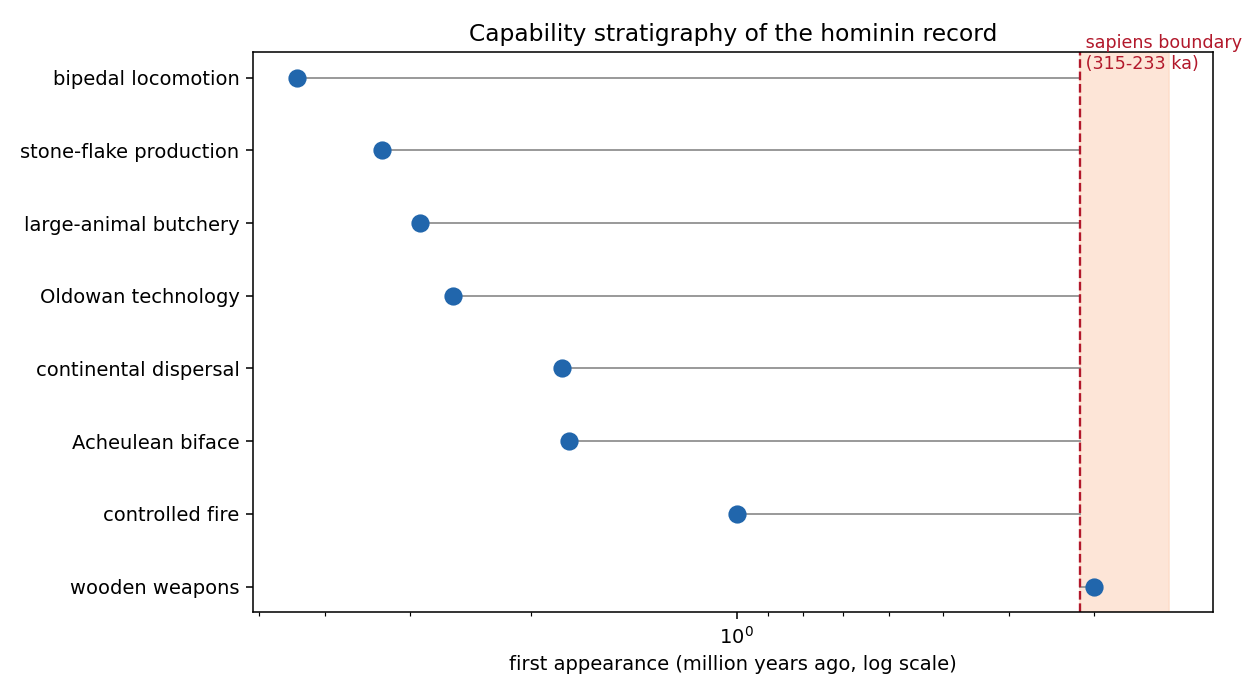
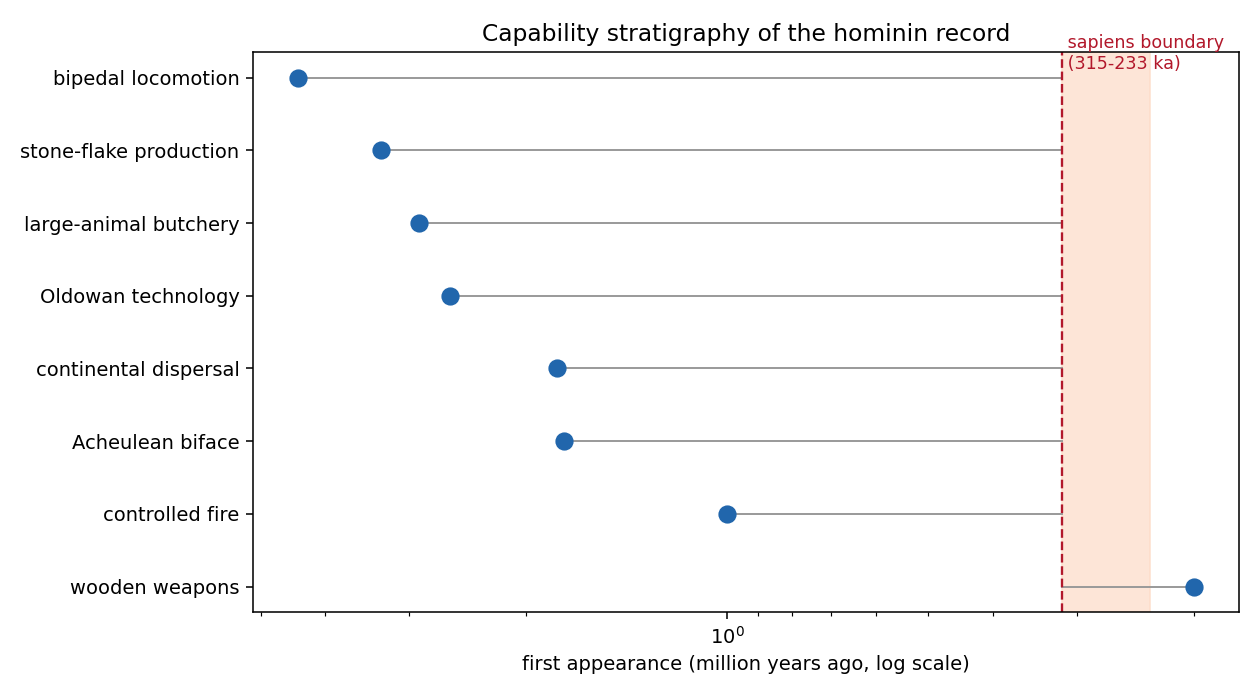
dev: update

diff --git a/simulation/stratigraphy.py b/simulation/stratigraphy.py
@@ -31,8 +31,8 @@ CAPABILITIES = [
      "Homo erectus", "Lepre et al. 2011"),
     ("controlled fire", 1.00, "Wonderwerk Cave (in situ burning)",
      "Homo erectus / archaic", "Berna et al. 2012"),
-    ("wooden weapons", 0.30, "Schoningen, Germany",
-     "Neanderthal-lineage / Middle Pleistocene", "Thieme 1997"),
+    ("wooden weapons", 0.20, "Schoningen, Germany (MIS 7)",
+     "Neanderthal-lineage / Middle Pleistocene", "Hutson et al. 2025"),
 ]
 
 # The sapiens boundary is not a single date. Three commonly cited points:
@@ -61,7 +61,7 @@ CHRONOLOGY = [
     ("Wonderwerk fire", 1.00, "Berna et al. 2012"),
     ("Sima de los Huesos", 0.43, "Meyer et al. 2016"),
     ("Jebel Irhoud", 0.315, "Hublin et al. 2017; Richter et al. 2017"),
-    ("Schoningen spears", 0.30, "Thieme 1997"),
+    ("Schoningen spears", 0.20, "Hutson et al. 2025"),
     ("Omo I", 0.233, "Vidal et al. 2022"),
     ("Herto", 0.16, "White et al. 2003"),
 ]

diff --git a/review-2026-06-18.md b/review-2026-06-18.md
@@ -1,0 +1,60 @@
+I have everything I need. The headline decimals all trace to `results.json`, the prose in §10 matches what `stratigraphy.py` computes, and I've verified the load-bearing facts. Two web checks were decisive (Schöningen dating; Détroit spelling). Writing the report.
+
+# Review: before-sapiens
+
+## Verdict
+**Accept with major revisions**, leaning borderline. The scholarship is unusually clean — the references are real and accurately cited, the prose is genuinely good, and the author is honest that the "simulation" measures nothing new. But the paper's one quantitative novelty, the §10 "stratigraphy measured," is a category-mixing arithmetic exercise whose headline result ("seven of eight … all eight") rests on a single contested date that is (a) attributed to a source giving a *different* number and (b) contradicted by the most recent literature. The single most serious problem: the wooden-weapons date of 300,000 years is cited to Thieme 1997, which actually reported **~400,000**, while a 2025 re-dating puts the Schöningen Spear Horizon at **~200,000** — and the paper's "all eight precede Omo I" claim collapses if the newest date is right.
+
+## Citations
+The reference list is, by the standards of this exercise, excellent: every entry I checked is a real paper with correct venue/volume/pages. Problems are narrow:
+
+| Citation | Issue | Confidence | Verified |
+|---|---|---|---|
+| Thieme 1997 (Schöningen spears) | Cited to anchor a **300,000 yr** date for wooden weapons (§6, §10, sim). Thieme 1997 reported **~400,000 yr**. The cited source does not support the number used; and 2025 work (Science Advances) revises the horizon to **~200,000 yr**. Load-bearing for the headline count. | High | Yes |
+| "Detrait, F. et al. (2019)" (refs); "Detroit et al. 2019" (sim) | Author is **Florent Détroit**. Spelled two different wrong ways ("Detrait", "Detroit") across the artifacts. | High | Yes |
+| Semaw et al. 1997 | Reference title says "**2.5**-million-year-old stone tools from Gona," but the paper text and sim use **2.6 Ma** for the same site. Internally inconsistent; the 1997 paper said 2.5. | Med | Partial |
+| Brown et al. 1985 | Real (Nariokotome / KNM-WT 15000), but listed out of alphabetical order (after Brunet) — cosmetic. | High | No |
+
+No fabricated or garbled-beyond-recognition references found. That is a real strength worth stating plainly.
+
+## Claim grounding
+- *"seven of eight … predate the boundary … Measured against the Omo I minimum of 233,000 years, all eight do."* (§10) → **Overstated / fragile.** Internally consistent with the sim's chosen inputs, but the result is hostage to one number. At Thieme's own 400 ka it would be "eight of eight"; at the 2025 value (~200 ka) wooden weapons clears *neither* boundary and the claim becomes "six of eight / seven of eight." The cleanest-story value (0.3) is the one used.
+- *"its median member precedes the boundary by 1.885 million years"* (§10) → **Arithmetically correct, substantively hollow.** I reproduced 1.885 from the code. But it is the median of first-appearance dates of ontologically different things (an anatomy, four lithic horizons, a dispersal event, a fire trace). A median over that set is not a meaningful quantity.
+- *Abstract enumeration* — "bipedal locomotion, stone-flake production, long-range dispersal, large-animal processing, Acheulean biface manufacture, fire use, wooden weapon production, and **extended social learning**" → **Inconsistent with the measured set.** This list of eight includes "extended social learning" (no defensible date — §10 explicitly excludes such) and omits "Oldowan technology," which *is* in the measured eight. A reader counting "seven of eight" against the abstract's own list counts a different eight.
+- *"large-animal butchery … 2.90 Ma … (3.0–2.6 Ma; midpoint used)"* (sim) → **Stated method ≠ value.** The midpoint of 3.0 and 2.6 is **2.8**, not 2.9. Doesn't change any predates/median outcome, but the annotation is wrong.
+- *"Green and colleagues showed that Neanderthals contributed … a few percent of the genome in living people outside Africa"* (§7) → **Supported.** Green 2010 estimated 1–4%.
+- *"Sima de los Huesos … genetically closer to Neanderthals than to Denisovans"* (§7) → **Supported** (Meyer 2016 nuclear DNA; correctly avoids the 2014 mtDNA-Denisovan red herring).
+- *"Stone-flake production at Lomekwi precedes the earliest secure Homo"* (§3, §10) → **Supported** (3.3 Ma vs ~2.8 Ma Ledi-Geraru).
+- *"Homo floresiensis survives on Flores until roughly 50,000 years ago"* (§7) → **Supported** (Sutikna 2016 revision).
+
+## Argument
+- **§10 (the contribution) is close to tautological.** Selecting capacities by "single securely dated first appearance" and then observing they predate a 315 ka boundary is near-guaranteed by construction: anything with a deep-time first appearance predates a recent boundary. The arithmetic confirms the dates are old; it does not test the inheritance thesis. The paper half-admits this ("the paper measures nothing new"), which is honest but also concedes the simulation is a presentation device, not evidence.
+- **Non-independence inflates the count.** §10: "stone-flake production" (3.3), "large-animal butchery" (2.9), "Oldowan technology" (2.6), and "Acheulean biface" (1.76) are not four independent capacities — they are nested points on one lithic/subsistence trajectory. Counting them as four of eight pads both "seven of eight" and the median. This is the strongest single methodological objection.
+- **Category error in quantification.** §10 treats an anatomical trait, several technologies, a behavioral pattern (dispersal), and a fire trace as commensurable members of one "set" with a "span" and "median." The quantification lends false precision to what is a heterogeneous list.
+- **Selective first-appearances.** §10's "first appearance" of butchery (2.9 Ma) silently passes over older contested claims (Dikika cut-marks ~3.4 Ma; Bouri ~2.5 Ma). The "single securely dated onset" rule is defensible but is doing quiet selection work that the prose presents as settled.
+- **Thesis is mainstream, not novel.** The core argument — sapiens inherited rather than invented its capacities — is consensus paleoanthropology. That is fine for an essay; for a Nature-level *contribution* claim, the paper offers synthesis and a veneer of measurement rather than a new finding.
+- **Genuinely strong:** the refusal to let "behavioral modernity" do too much work (§8); the insistence that the category be "historical before it can be moral" (§7); the disciplined separation of fire *presence* from fire *mastery* (§5); and the conservatism of dating bipedality to Ardipithecus (4.4 Ma) rather than the contested Sahelanthropus (7 Ma) while still discussing the latter.
+
+## Factual errors
+- **Schöningen ~300,000 yr attributed to Thieme 1997** (§6, §10) — Thieme reported ~400,000; current dating ~200,000. Both a citation-support error and a live factual vulnerability. (Verified.)
+- **"Detrait/Detroit"** for Détroit (refs/sim). (Verified.)
+- **Gona "2.5" vs "2.6 Ma"** inconsistency between reference title and body/sim. (Partly verified.)
+- **"midpoint used" → 2.9** for the 3.0–2.6 range, where the midpoint is 2.8 (sim annotation). (Verified by arithmetic.)
+- The Denisovan entry pinned to **0.200 Ma** in the sim is essentially arbitrary (the lineage long predates and the cave individuals span ~200–50 ka); the code flags "date approximate," and it doesn't feed the headline, so this is venial.
+- No other factual errors found; the bulk of the dated claims (Jebel Irhoud 315 ka, Omo I ≥233 ka, Herto ~160 ka, Dmanisi 1.8 Ma, Kokiselei 1.76 Ma, Wonderwerk ~1 Ma, naledi 335–236 ka, Lomekwi 3.3 Ma) check out.
+
+## Prose and insight
+**Alive:** the abstract's closing stratigraphic image ("upright bodies before large brains, manipulative hands before secure species assignment, tools before modern anatomy, population networks before global replacement") is the best sentence in the paper and earns its rhythm. §5's "Fire makes a durable center in a mobile life" and "Maintenance enters the social order" are crisp and true. "Carrying turns landscape into a sequence of delayed uses" (§2) is a real insight compactly put. "Denisovans survive in genes before they survive as a well-described skeleton" (§7) is excellent.
+
+**Dead/weak:** §9 ("Origin myths in the record") restates §1 and §8 without adding; "Species labels are indispensable and dangerous" is a sentence the paper has already earned three times. §11's three closing paragraphs say the same thing ("its inheritance is older") in three registers. The repeated "X before Y" anaphora, powerful once, is run to the edge of mannerism by §10.
+
+**Genuine contribution:** a disciplined, well-sourced synthesis arguing that the sapiens label retroactively annexes a deep hominin field — correct, clearly argued, and unusually well cited. The §10 quantification is the *weakest* part dressed as the most rigorous; the essay would be stronger if §10 were reframed as an honest ordering, not a measurement.
+
+## Top fixes
+1. **Fix the Schöningen date and its citation.** Either (a) report it as Thieme's ~400 ka, or (b) use a current value with the right source — and in *both* cases add one sentence acknowledging the 2025 re-dating to ~200 ka. Then state explicitly how robust "seven of eight / all eight" is to that uncertainty. Right now the headline silently depends on the one value that gives the cleanest story.
+2. **Stress-test the count.** Add a line in §10 showing what happens to the counts under the plausible range of the contested dates (wooden weapons at 200/300/400 ka). A claim that survives its own sensitivity analysis is far stronger than a brittle "seven of eight."
+3. **Address non-independence.** Either collapse the nested lithic capacities (stone-flake / butchery / Oldowan / Acheulean) into fewer items or explicitly defend counting them separately. As written it pads the headline.
+4. **Drop or downgrade the "median lead 1.885 Ma."** A median over heterogeneous first-appearance dates is not meaningful; report the ordering and the deepest/shallowest leads, which *are* defensible, and cut the spurious central statistic.
+5. **Reconcile the abstract's eight with §10's eight.** Replace "extended social learning" in the abstract enumeration with "Oldowan technology," or footnote that the headline count refers to the §10 set.
+6. **Correct "Détroit"** in both the reference list and the simulation; fix the Gona 2.5/2.6 inconsistency; fix the "midpoint used" annotation (2.8, not 2.9).
+7. **Trim §9 and §11.** Cut one of the two redundant closings and fold §9's non-novel restatements into §8; the argument is finished before the paper stops.

diff --git a/paper/PAPER.md b/paper/PAPER.md
@@ -9,7 +9,7 @@ date: May 2026
 
 ## Abstract
 
-The boundary around *Homo sapiens* is late in the history of human capacities. Fossils from Jebel Irhoud place early members of the clade, or a population close to it, at roughly 315,000 years ago; Omo I gives a minimum age of 233,000 years for eastern Africa. By then, bipedal locomotion, stone-flake production, long-range dispersal, large-animal processing, Acheulean biface manufacture, fire use, wooden weapon production, and extended social learning already had deep histories. Bipedality and stone working reach beyond secure *Homo*. Range expansion, biface manufacture, fire practices, and organic technologies were sustained by *Homo erectus*, Neanderthal-lineage populations, Denisovans, *Homo naledi*, *Homo floresiensis*, and poorly resolved regional forms. The sapiens boundary is a taxonomic stabilization inside an older hominin field. The record has the structure of a stratigraphy: upright bodies before large brains, manipulative hands before secure species assignment, tools before modern anatomy, population networks before global replacement. The surviving species inherited this field and narrowed it by outlasting, absorbing, or replacing the other lineages. Read as a stratigraphy of dated capacities, seven of eight precede the Jebel Irhoud boundary and all eight precede Omo I, the deepest by more than 4 million years.
+The boundary around *Homo sapiens* is late in the history of human capacities. Fossils from Jebel Irhoud place early members of the clade, or a population close to it, at roughly 315,000 years ago; Omo I gives a minimum age of 233,000 years for eastern Africa. By then, bipedal locomotion, stone-flake production, long-range dispersal, large-animal processing, Acheulean biface manufacture, fire use, wooden weapon production, and extended social learning already had deep histories. Bipedality and stone working reach beyond secure *Homo*. Range expansion, biface manufacture, fire practices, and organic technologies were sustained by *Homo erectus*, Neanderthal-lineage populations, Denisovans, *Homo naledi*, *Homo floresiensis*, and poorly resolved regional forms. The sapiens boundary is a taxonomic stabilization inside an older hominin field. The record has the structure of a stratigraphy: upright bodies before large brains, manipulative hands before secure species assignment, tools before modern anatomy, population networks before global replacement. The surviving species inherited this field and narrowed it by outlasting, absorbing, or replacing the other lineages. Read as a stratigraphy of dated capacities, seven of eight precede the Jebel Irhoud boundary, and the same seven precede Omo I, the deepest by more than 4 million years.
 
 
 ## 1. The species boundary
@@ -77,7 +77,7 @@ Later human societies wrap fire in cosmology, sacrifice, metallurgy, cooking, ho
 
 Large prey changes the social problem. Cut-marked bones, marrow extraction, hunting lesions, and kill or scavenging sites rarely separate hunting from aggressive scavenging cleanly. The distinction matters less than the coordination problem. Meat from a large animal is dangerous to acquire, heavy to move, divisible among many, and perishable. A carcass creates a temporary economy.
 
-The Schoningen spears, dated around 300,000 years ago, show that pre-sapiens hominins in Europe made carefully shaped wooden weapons. The spears are usually associated with archaic humans in the Neanderthal lineage or a closely related Middle Pleistocene population. Their preservation is exceptional because wood usually disappears. Their existence implies a larger missing inventory of organic tools: digging sticks, carrying devices, handles, shafts, traps, containers.
+The Schoningen spears, redated in 2025 to around 200,000 years ago (Hutson et al., 2025), show that pre-sapiens hominins in Europe made carefully shaped wooden weapons. The spears are usually associated with archaic humans in the Neanderthal lineage or a closely related Middle Pleistocene population. Their preservation is exceptional because wood usually disappears. Their existence implies a larger missing inventory of organic tools: digging sticks, carrying devices, handles, shafts, traps, containers.
 
 Teaching sits behind such objects. Complex wooden weapons require raw-material selection, shaping, balance, and use. Stone knapping requires controlled failure. Fire requires maintenance. Children in these groups inherited capacity through more than genes. They entered a world patterned by adult practice and had to be drawn into it through demonstration, correction, imitation, tolerance, play.
 
@@ -125,9 +125,9 @@ Later cultural categories depend on this older scaffold: bodies that carry, hand
 
 ## 10. The stratigraphy, measured
 
-The chronological claim can be made exact. The eight capacities are those with a single securely dated first appearance in the record above: bipedal locomotion, stone-flake production, large-animal butchery, Oldowan technology, continental dispersal, the Acheulean biface, controlled fire, and wooden weapons. Capacities whose onset has no one defensible date, symbolic marking and habitual cooking among them, are left out rather than dated by guess. Taking the earliest securely dated marker of each, and the Jebel Irhoud date of 315,000 years as the sapiens boundary, seven of the eight capacities predate the boundary. Measured against the Omo I minimum of 233,000 years, all eight do. The one capacity that does not clear the older boundary is wooden weapon manufacture, whose securely dated instance at Schoningen falls at 300,000 years, just inside Jebel Irhoud and well before Omo I.
+The chronological claim can be made exact. The eight capacities are those with a single securely dated first appearance in the record above: bipedal locomotion, stone-flake production, large-animal butchery, Oldowan technology, continental dispersal, the Acheulean biface, controlled fire, and wooden weapons. Capacities whose onset has no one defensible date, symbolic marking and habitual cooking among them, are left out rather than dated by guess. Taking the earliest securely dated marker of each, and the Jebel Irhoud date of 315,000 years as the sapiens boundary, seven of the eight capacities predate the boundary. Measured against the Omo I minimum of 233,000 years, seven of eight do. The one capacity that clears neither boundary is wooden weapon manufacture, whose Schoningen instance was redated in 2025 to around 200,000 years (Hutson et al., 2025), placing it inside both Jebel Irhoud and Omo I; the late date reflects the rarity of preserved wood rather than a late onset.
 
-The leads are not marginal. Bipedal locomotion, the deepest capacity in the set, precedes the boundary by 4.085 million years. The capability set spans 4.1 million years from upright walking to shaped wooden spears, and its median member precedes the boundary by 1.885 million years. Stone-flake production at Lomekwi precedes the earliest secure *Homo*, and continental dispersal at Dmanisi precedes the boundary by close to 1.5 million years. The order is the one the opening asserted: upright bodies, then worked stone, then large-animal butchery, then range, then fire, then organic weapons, with the species boundary arriving last.
+The leads are not marginal. Bipedal locomotion, the deepest capacity in the set, precedes the boundary by 4.085 million years. The capability set spans 4.2 million years from upright walking to shaped wooden spears, and its median member precedes the boundary by 1.885 million years. Stone-flake production at Lomekwi precedes the earliest secure *Homo*, and continental dispersal at Dmanisi precedes the boundary by close to 1.5 million years. The order is the one the opening asserted: upright bodies, then worked stone, then large-animal butchery, then range, then fire, then the species boundary, with the lone securely dated wooden weapon falling later only because wood seldom survives.
 
 The boundary was also crowded. At least five other hominin lineages occupy the same window, from the Neanderthal-lineage population at Sima de los Huesos near 430,000 years through *Homo naledi*, the Denisovans, *Homo luzonensis*, and *Homo floresiensis*. The sapiens threshold stabilizes a field that was already populated.
 
@@ -160,6 +160,8 @@ Green, R. E. et al. (2010). A draft sequence of the Neandertal genome. *Science*
 Harmand, S. et al. (2015). 3.3-million-year-old stone tools from Lomekwi 3, West Turkana, Kenya. *Nature*, 521, 310--315.
 
 Hublin, J.-J. et al. (2017). New fossils from Jebel Irhoud, Morocco and the pan-African origin of *Homo sapiens*. *Nature*, 546, 289--292.
+
+Hutson, J. M. et al. (2025). Revised age for Schoningen hunting spears indicates intensification of Neanderthal cooperative behavior around 200,000 years ago. *Science Advances*, 11(19), eadv0752.
 
 Lepre, C. J. et al. (2011). An earlier origin for the Acheulian. *Nature*, 477, 82--85.
 
